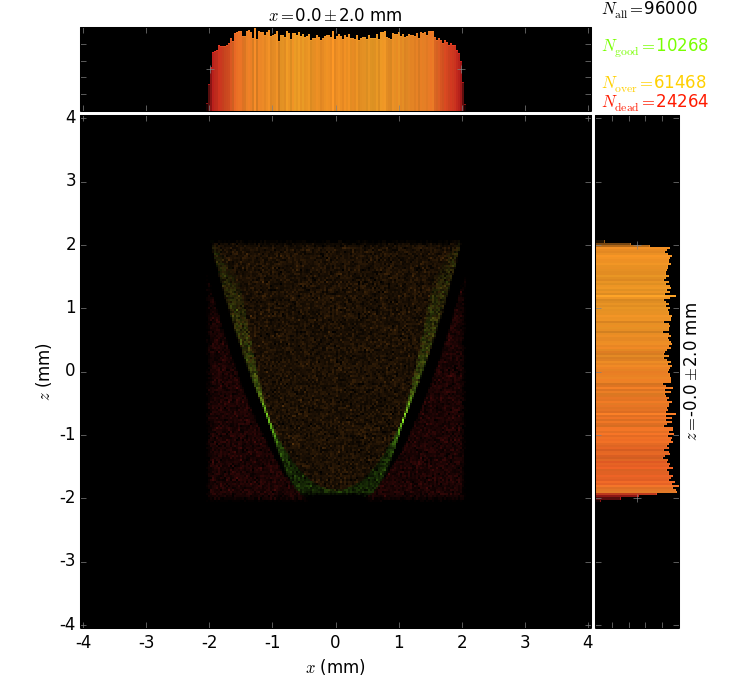
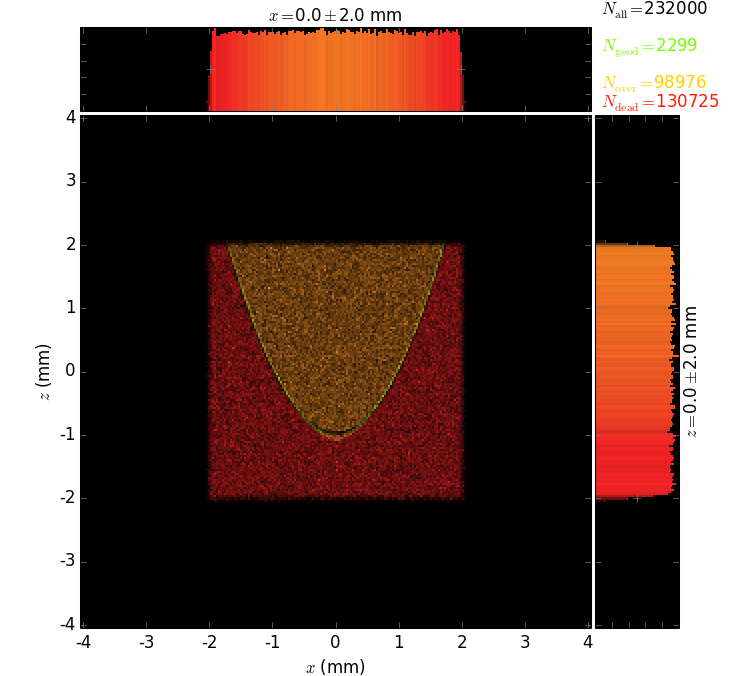
wip: looking for transimission

diff --git a/customobjects.py b/customobjects.py
@@ -10,13 +10,13 @@ class CustomShape(roe.OE):
         roe.OE.__init__(self, *args, **kwargs)
     def local_n(self, x, y):
         a = 2.0 * x
-        b = 1./self.limPhysY[0]
+        b = 10./self.limPhysY[0]
         c = 1
         norm = (a**2 + c**2)**0.5
         return [a/norm, b/norm, c/norm]
 
     def local_z(self, x, y):
-        return x**2 + y/self.limPhysY[0] - 3
+        return x**2 + 10.*y/self.limPhysY[0] - 11.0
 
 if __name__ == '__main__':
     verts = [

diff --git a/object_testing.py b/object_testing.py
@@ -82,7 +82,7 @@ def build_beamline(nrays=1000):
     shape = [(0.1*v[0], 0.1*v[1]) for v in shape]
 
     # Set position and thickness
-    limPhysY = [35.94, 39.95]
+    limPhysY = [39.8, 39.95]
     limPhysX = [-2.0, 2.0]
 
     # Tested material
